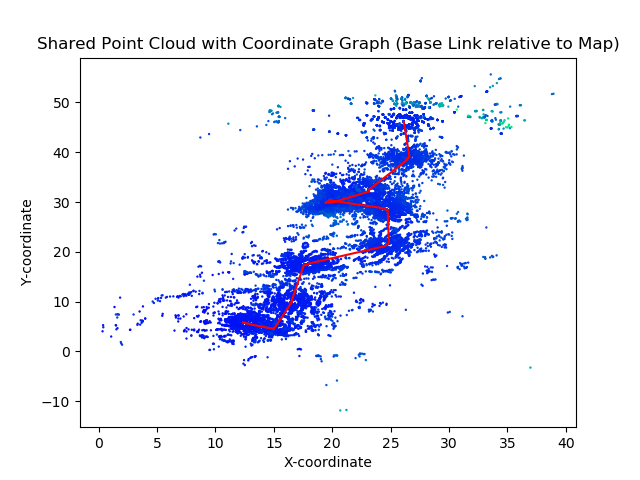
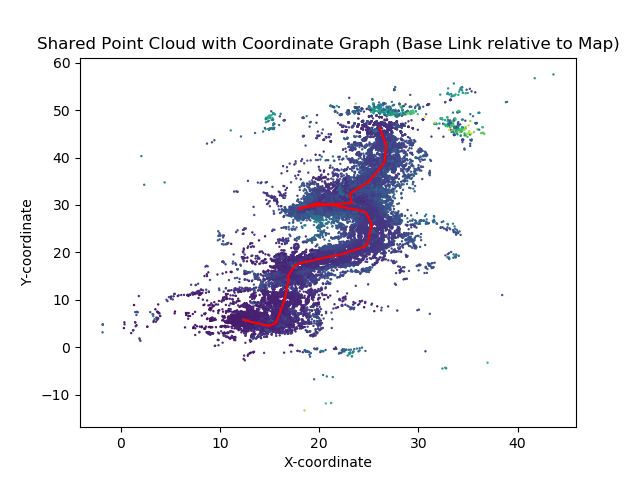
new commit

diff --git a/nodes/shared_cloud_reader.py b/nodes/shared_cloud_reader.py
@@ -1,3 +1,5 @@
+import numpy
+
 from sensor_msgs.msg import PointCloud2
 import matplotlib.pyplot as plt
 import rospy
@@ -74,6 +76,7 @@ def save_png(cloud_combined, coord_x_base_link, coord_y_base_link):
     plt.title("Shared Point Cloud with Coordinate Graph (Base Link relative to Map)")
     combined_points = np.concatenate(cloud_combined, axis=1)
     colors = combined_points[2, :] * 2
+    print(numpy.unique(colors))
     ax.scatter(combined_points[0, :], combined_points[1, :], s=marker_size, c=colors, cmap='winter', alpha=1)
     ax.plot(coord_x_base_link, coord_y_base_link, color='red')
     plt.savefig(output_path)

diff --git a/nodes/main.py b/nodes/main.py
@@ -1,7 +1,5 @@
 import rosbag
 import shared_cloud_reader
-import tf_reader
-import cloud_reader
 import image_reader
 
 
@@ -9,8 +7,6 @@ import image_reader
 def main():
     path = '/home/robert/catkin_ws/src/bag_crawler/bagfiles/husky_2022-09-27-15-01-44.bag'
     bag = rosbag.Bag(path)
-    #tf_reader.save_graph(bag)
-    #cloud_reader.save_cloud(bag)
     #image_reader.save_image(bag)
     shared_cloud_reader.save_shared_cloud_with_graph(bag)
     bag.close()
